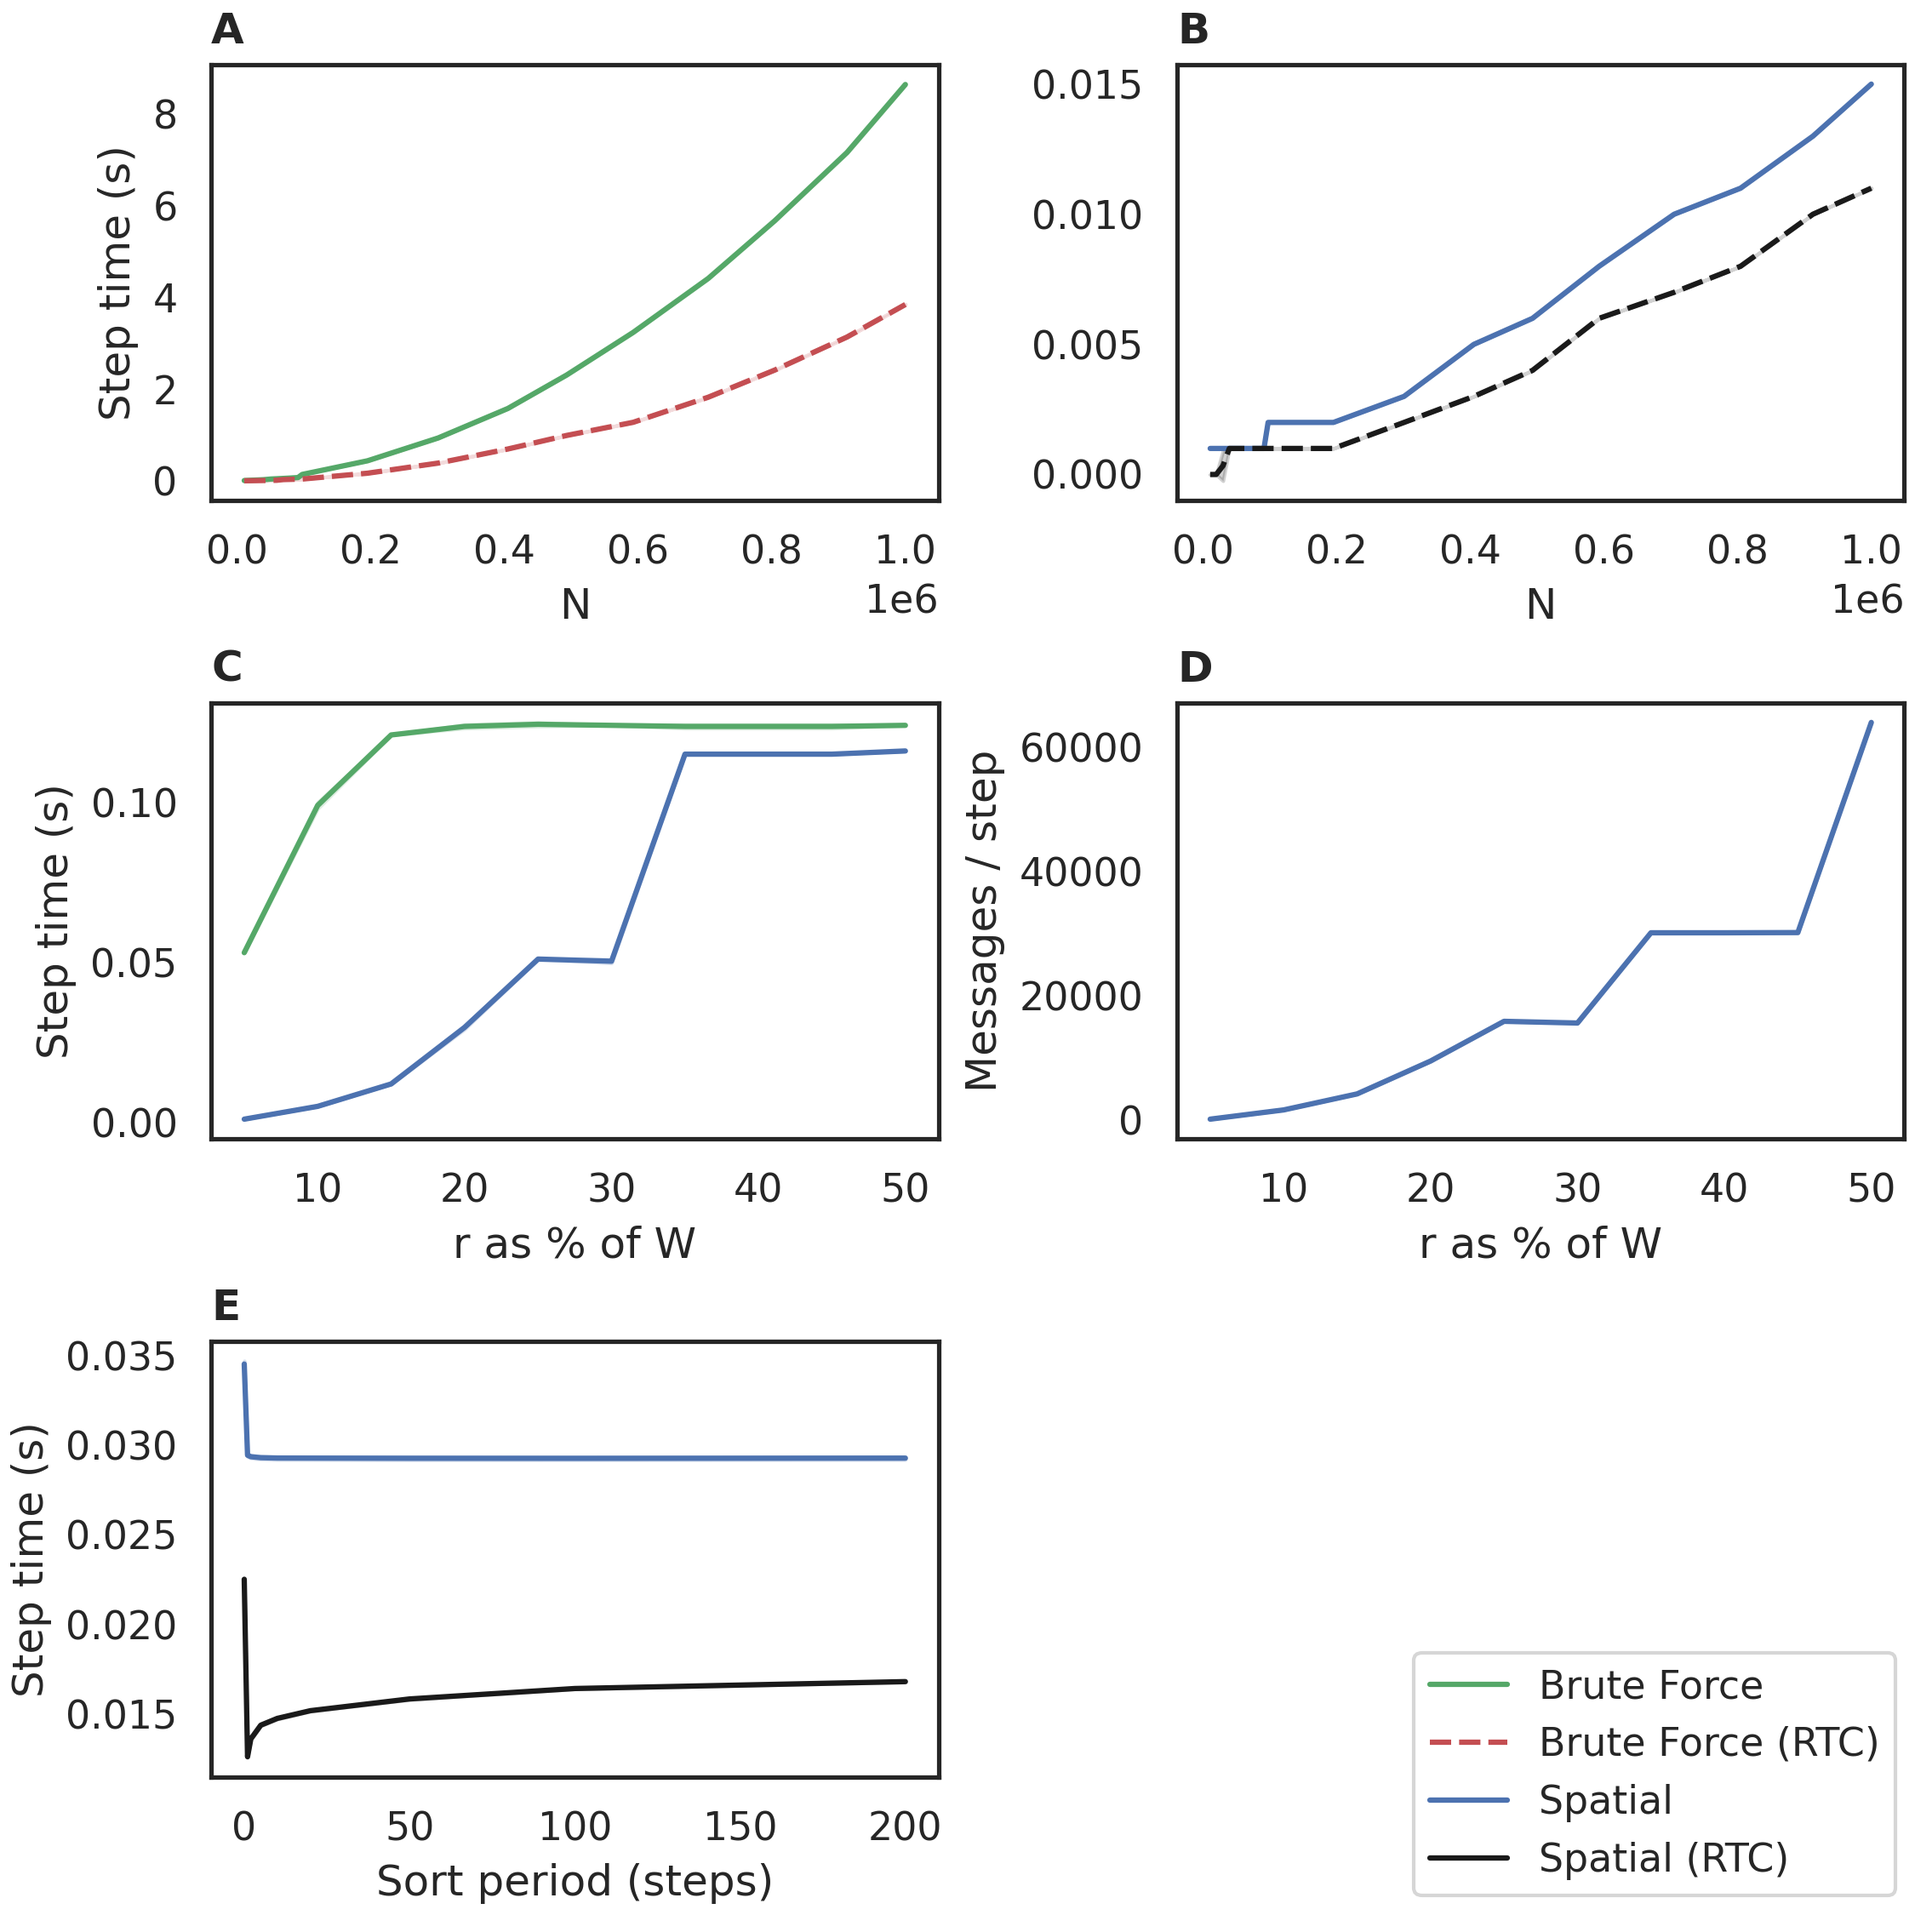
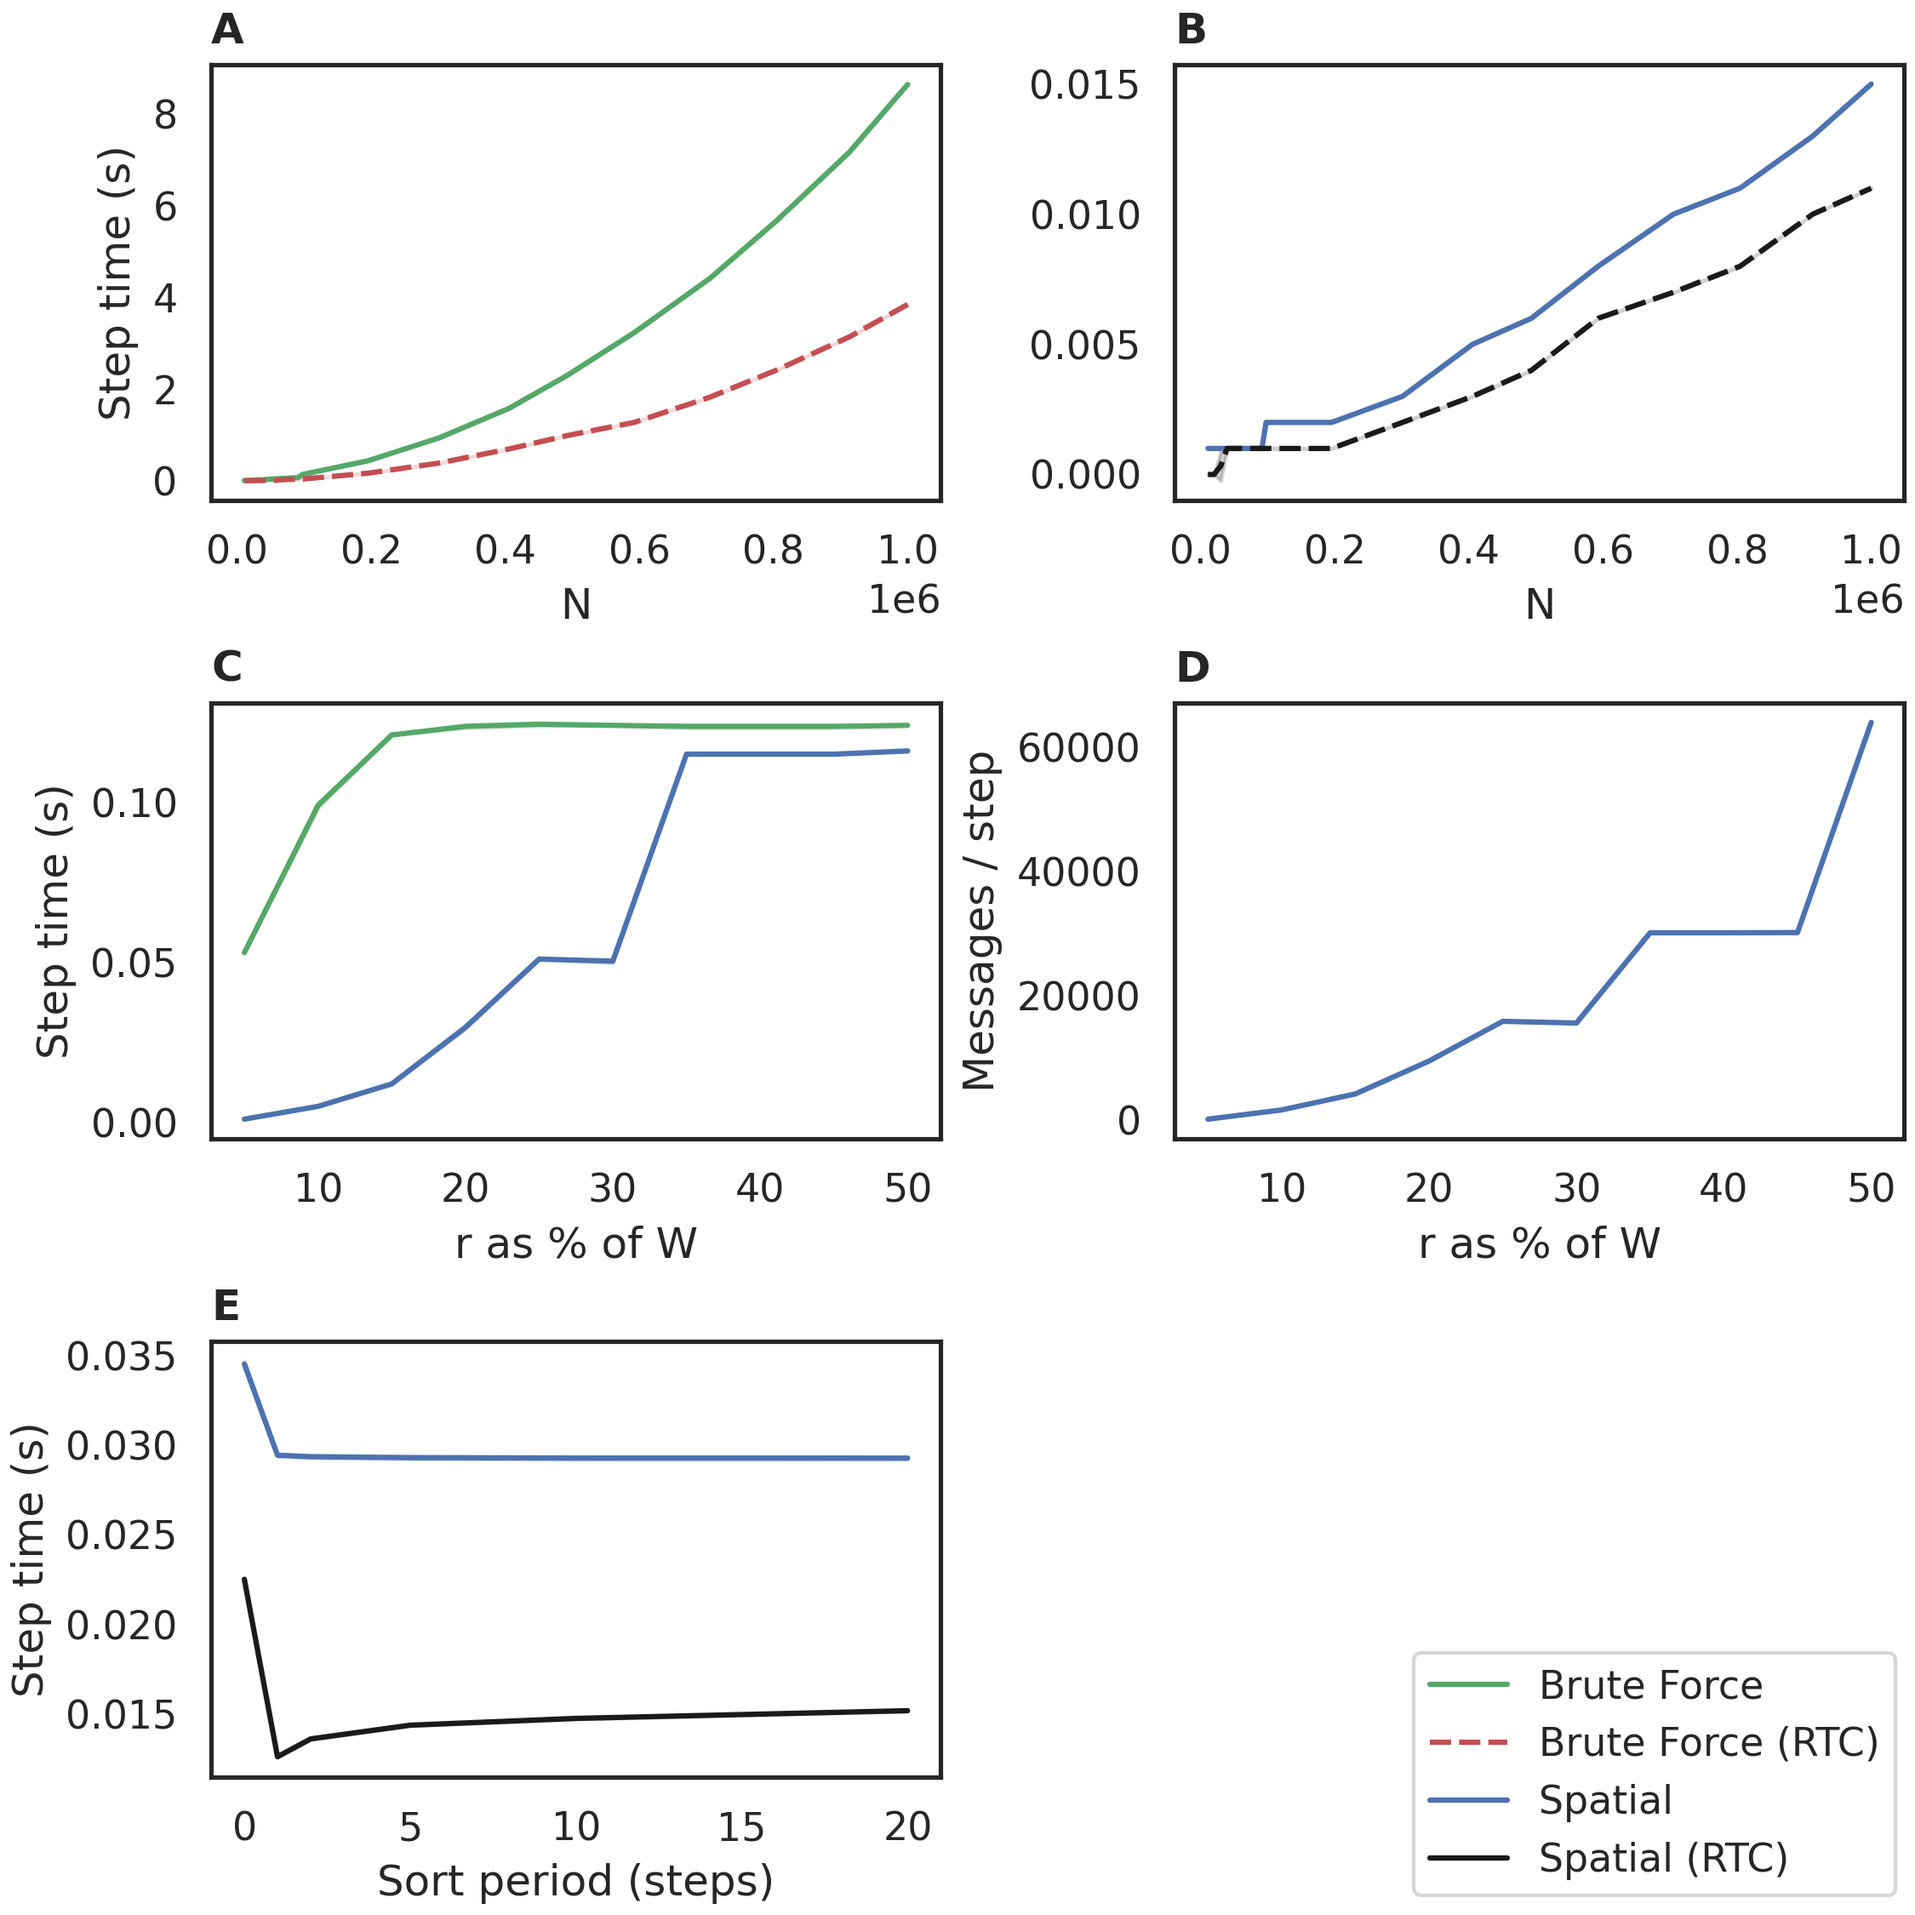
Tidy plotting scripts and readme, limit sort-period graphs to max period of 20

diff --git a/plot.py b/plot.py
@@ -31,7 +31,9 @@ EXPECTED_CSV_FILES=[
     "variable-density_perSimulationCSV.csv",
     "variable-density_perStepPerSimulationCSV.csv",
     "comm-radius_perSimulationCSV.csv",
-    "comm-radius_perStepPerSimulationCSV.csv"
+    "comm-radius_perStepPerSimulationCSV.csv",
+    "sort-period_perSimulationCSV.csv",
+    "sort-period_perStepPerSimulationCSV.csv"
 ]
 
 
@@ -48,6 +50,10 @@ GROUP_BY_COLUMNS_PER_STEP_PER_SIM = ["GPU","release_mode","seatbelts_on","model"
 # input csv columns which identify a row as a duplicate of another repetition for aggregation, for per-sim csv
 GROUP_BY_COLUMNS_PER_SIM = ["GPU","release_mode","seatbelts_on","model","steps","agent_count","env_width","comm_radius"]
 
+# Handle columns which only appear in specific files
+FILE_SPECIFIC_COLUMNS = {
+   'sort-period_perSimulationCSV.csv': "sort_period" 
+}
 
 # Aggregate operations to apply across grouped csv rows, for the per-step per-sim csvs
 AGGREGATIONS_PER_STEP_PER_SIM = {
@@ -65,6 +71,7 @@ AGGREGATIONS_PER_SIM = {
     's_exit': ['mean'],
     's_step_mean': ['mean'],
 }
+
 
 
 
@@ -190,6 +197,10 @@ def process_data(input_dataframes, verbose):
         # Columns to group data by - i.e. identify repetitions of a single run
         group_by_columns = GROUP_BY_COLUMNS_PER_STEP_PER_SIM if csv_is_per_step else GROUP_BY_COLUMNS_PER_SIM
 
+        # Handle file specific columns
+        if csv_name in FILE_SPECIFIC_COLUMNS:
+            group_by_columns.append(FILE_SPECIFIC_COLUMNS[csv_name])
+
         # fetch the appropriate list of aggregate operations to apply.
         aggregations = AGGREGATIONS_PER_STEP_PER_SIM if csv_is_per_step else AGGREGATIONS_PER_SIM
 
@@ -279,6 +290,7 @@ MANUAL_PRETTY_CSV_KEY_MAP = {
     "mean_s_step": "Average Step Time (s)",
     "mean_agent_density": "Agent Density",
     "env_volume": "Environment Volume",
+    "sort_period": "Sort Period (steps)"
 }
 
 def pretty_csv_key(csv_key):
@@ -668,6 +680,19 @@ PLOTS_PER_CSV={
             df_query="model == 'circles_bruteforce_rtc'",
             miny=0,
             maxy=0.15,
+            sns_palette=SEQUENTIAL_PALETTE
+        )
+    ],
+    "sort-period_perSimulationCSV.csv": [
+        PlotOptions(
+            filename="lineplot--sort_period--mean_s_step_mean--model-comm_radius.png",
+            plot_type="lineplot",
+            xkey="sort_period",
+            ykey="mean_s_step_mean",
+            huekey="model",
+            stylekey="comm_radius",
+            df_query="sort_period <= 20 and (model == 'circles_spatial3D_rtc' or model == 'circles_spatial3D')",
+            miny=0,
             sns_palette=SEQUENTIAL_PALETTE
         )
     ]

diff --git a/plot_publication.py b/plot_publication.py
@@ -169,7 +169,8 @@ def main():
 
     # Plot sort period comparison
     plot_for_com_radius = 8
-    sort_df = sort_df.query("comm_radius == " + str(plot_for_com_radius) + " and (model == 'circles_spatial3D' or model == 'circles_spatial3D_rtc')")
+    max_sort_period_to_plot = 20
+    sort_df = sort_df.query("sort_period <= " + str(max_sort_period_to_plot) + " and comm_radius == " + str(plot_for_com_radius) + " and (model == 'circles_spatial3D' or model == 'circles_spatial3D_rtc')")
     plt_df_sort = sns.lineplot(x='sort_period', y='s_step_mean', hue='model', data=sort_df, ax=ax['p5'], palette=custom_palette, ci="sd")
     plt_df_sort.ticklabel_format(style='plain', axis='x') # no scientific notation
     plt_df_sort.set(xlabel='Sort period (steps)', ylabel='Step time (s)')

diff --git a/README.md b/README.md
@@ -54,6 +54,17 @@ A combined figure for use in publication is shown below. For details please refe
 
 [![Variable Communication Radius Benchmark](sample/figures/v100-470.82.01/alpha.2-v100-11.0-beltsoff/comm-radius--lineplot-spatial3D-bruteforce-rtc-only.png)](sample/figures/v100-470.82.01/alpha.2-v100-11.0-beltsoff/comm-radius--lineplot-spatial3D-bruteforce-rtc-only.png)
 
+### Variable Sort Period Benchmark
+
++ Runs for communication radii of `2.0`, `4.0`, `6.0`, `8.0`
++ Sort period is varied - shown on the X axis - a sort period of 0 represents no sorting
++ Model differentiated by marker
++ Agent count is fixed at 64,000
++ Environment width is fixed at 40
++ Agent density is `1.0f`
+
+[![variable-sort-period](sample/figures/v100-470.82.01/alpha.2-v100-11.0-beltsoff/sort-period--lineplot--sort_period--mean_s_step_mean--model-comm_radius.png)](sample/figures/v100-470.82.01/alpha.2-v100-11.0-beltsoff/sort-period--lineplot--sort_period--mean_s_step_mean--model-comm_radius.png)
+
 ## Building and Running the Benchmark
 
 Detail of dependencies and the `cmake` build process are described in full in the [FLAMEGPU2-example-template Repo](https://github.com/FLAMEGPU/FLAMEGPU2-example-template) and are not repeated here. The benchmark should be built with seatbelts off (e.g. `-DSEATBELTS=OFF` passed to the `cmake` configuration step) to disable additional run-time checks and optionally disabling Python Swig support which is not needed for this model(-DBUILD_SWIG_PYTHON=OFF ). E.g. for Volta (`SM_70`) GPUs under Linux.
